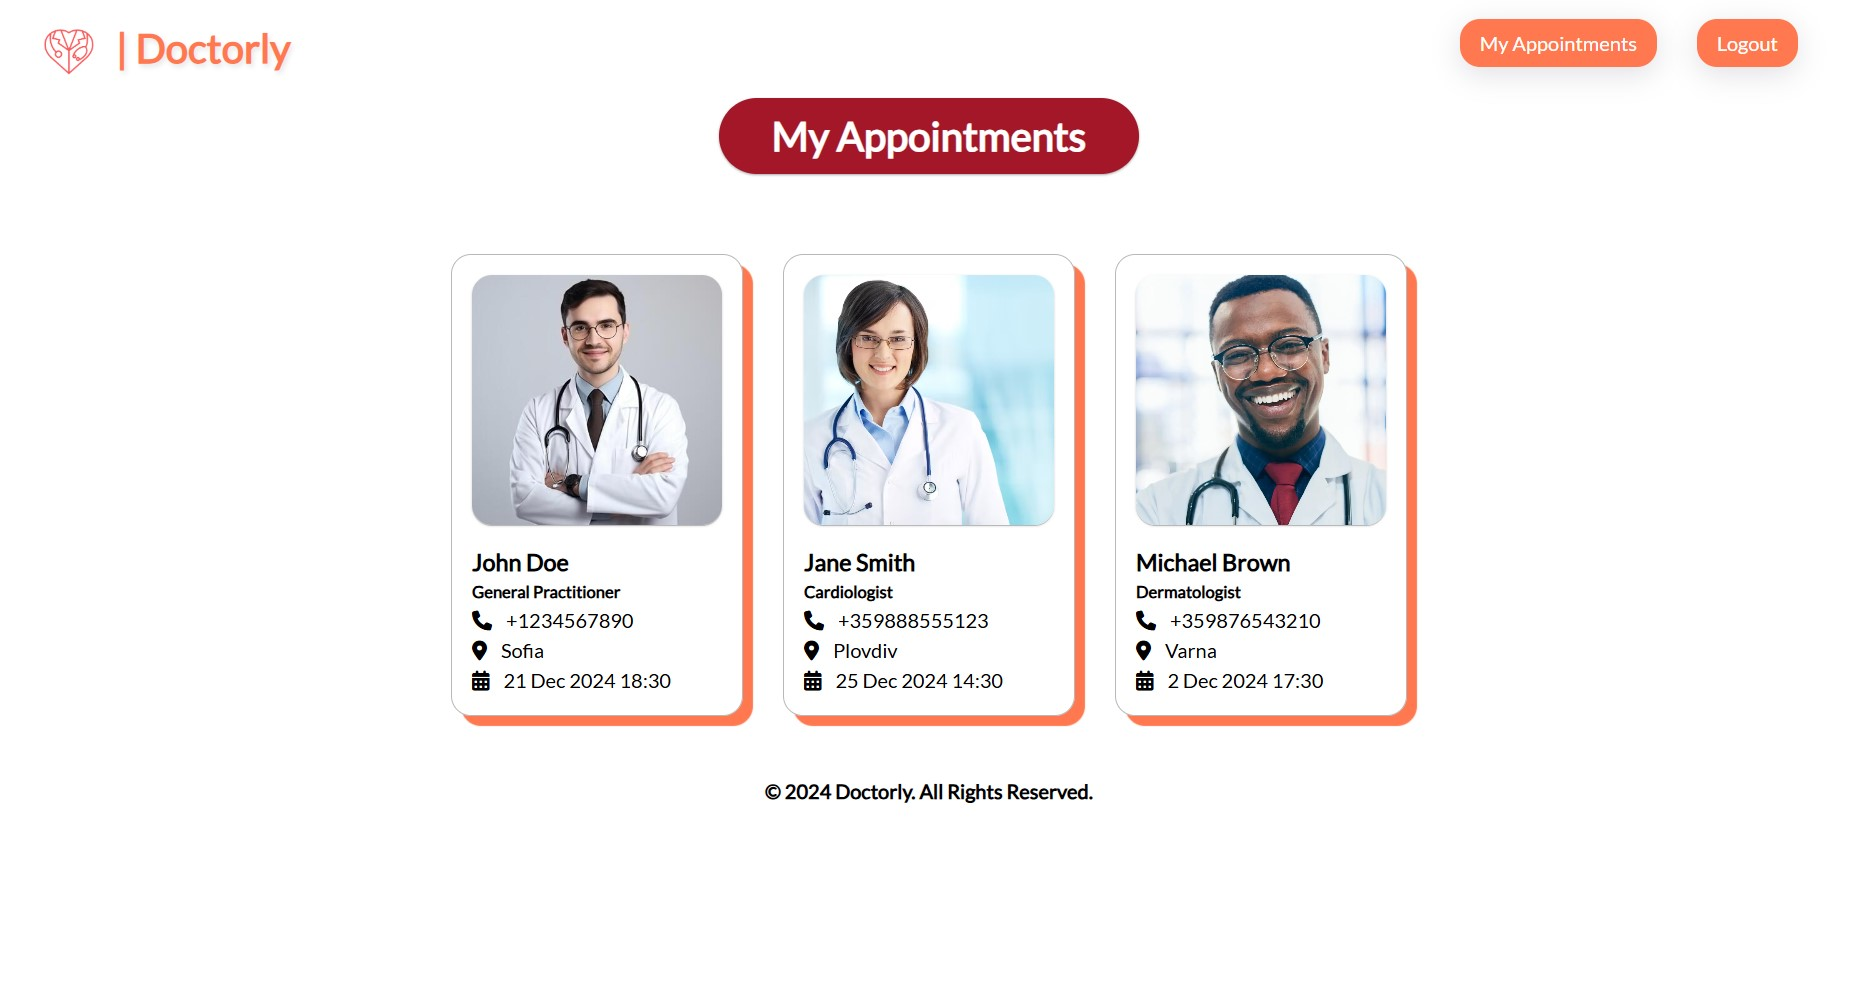
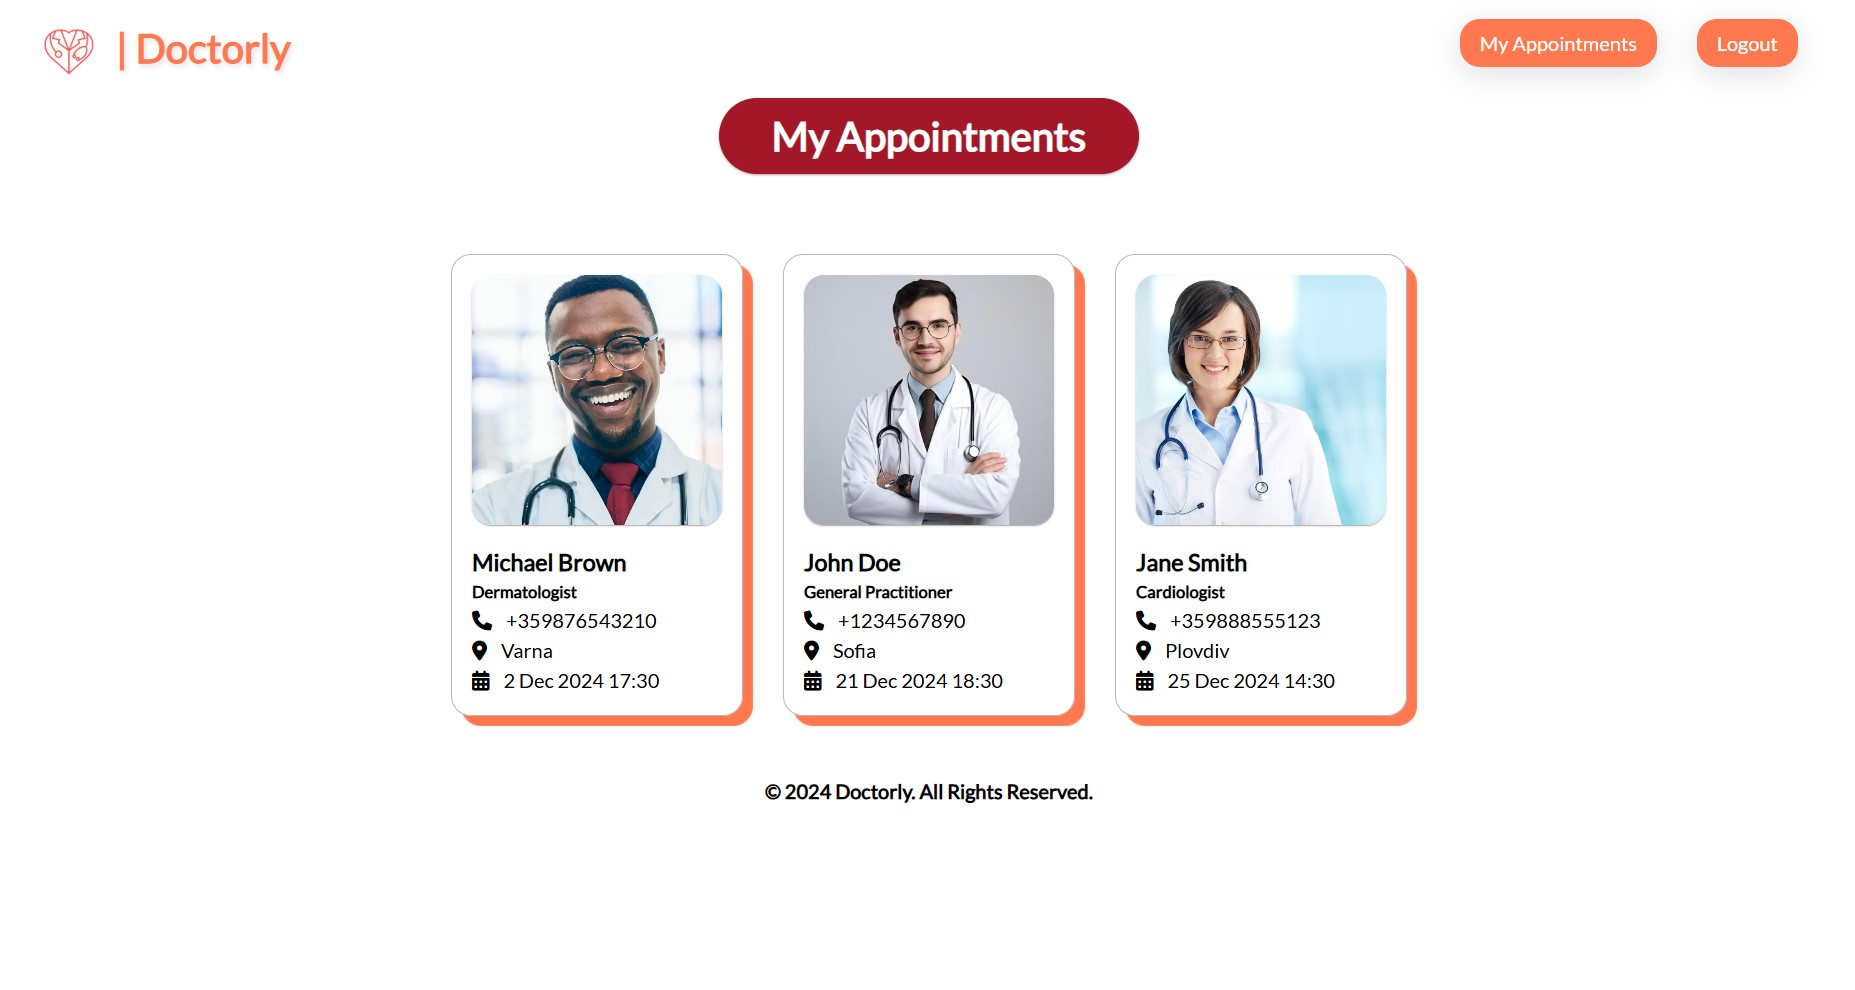
fixed order of appointments

diff --git a/DoctorlyApp/src/main/java/bg/doctorly/doctorlyapp/web/controllers/AppointmentController.java b/DoctorlyApp/src/main/java/bg/doctorly/doctorlyapp/web/controllers/AppointmentController.java
@@ -19,6 +19,7 @@ import org.springframework.web.bind.annotation.PostMapping;
 import org.springframework.web.bind.annotation.ResponseBody;
 
 import java.time.format.DateTimeFormatter;
+import java.util.Comparator;
 import java.util.List;
 import java.util.Map;
 
@@ -40,7 +41,12 @@ public class AppointmentController {
     public String appointments(Model model, @AuthenticationPrincipal UserDetails user) {
         Patient userPatient = userService.getPatientByEmail(user.getUsername());
 
-        List<AppointmentStringModel> formatted = userPatient.getAppointments().stream().map(this::mapToAppointment).toList();
+        List<AppointmentStringModel> formatted = userPatient
+                .getAppointments()
+                .stream()
+                .sorted(Comparator.comparing(Appointment::getAppointmentDateTime))
+                .map(this::mapToAppointment)
+                .toList();
         model.addAttribute("appointments", formatted);
         model.addAttribute("title", "Appointments | Doctorly");
         model.addAttribute("pageCss", "/css/appointments.css");

diff --git a/DoctorlyApp/src/main/java/bg/doctorly/doctorlyapp/service/impl/entityServiceImpl/DoctorServiceImpl.java b/DoctorlyApp/src/main/java/bg/doctorly/doctorlyapp/service/impl/entityServiceImpl/DoctorServiceImpl.java
@@ -22,10 +22,7 @@ import org.springframework.stereotype.Service;
 import java.io.IOException;
 import java.nio.file.Files;
 import java.nio.file.Path;
-import java.util.ArrayList;
-import java.util.Arrays;
-import java.util.List;
-import java.util.Optional;
+import java.util.*;
 
 @Service
 public class DoctorServiceImpl implements DoctorService {
@@ -102,6 +99,7 @@ public class DoctorServiceImpl implements DoctorService {
     private DoctorSearchModel mapDoctors(Doctor d) {
         List<Appointment> appointments = d.getAppointments().stream().filter(a -> a.getPatient() == null).toList();
         List<AppointmentSearchModel> filteredAppointments = appointments.stream()
+                .sorted(Comparator.comparing(Appointment::getAppointmentDateTime))
                 .map(a -> modelMapper.map(a, AppointmentSearchModel.class))
                 .toList();
         DoctorSearchModel map = modelMapper.map(d, DoctorSearchModel.class);
